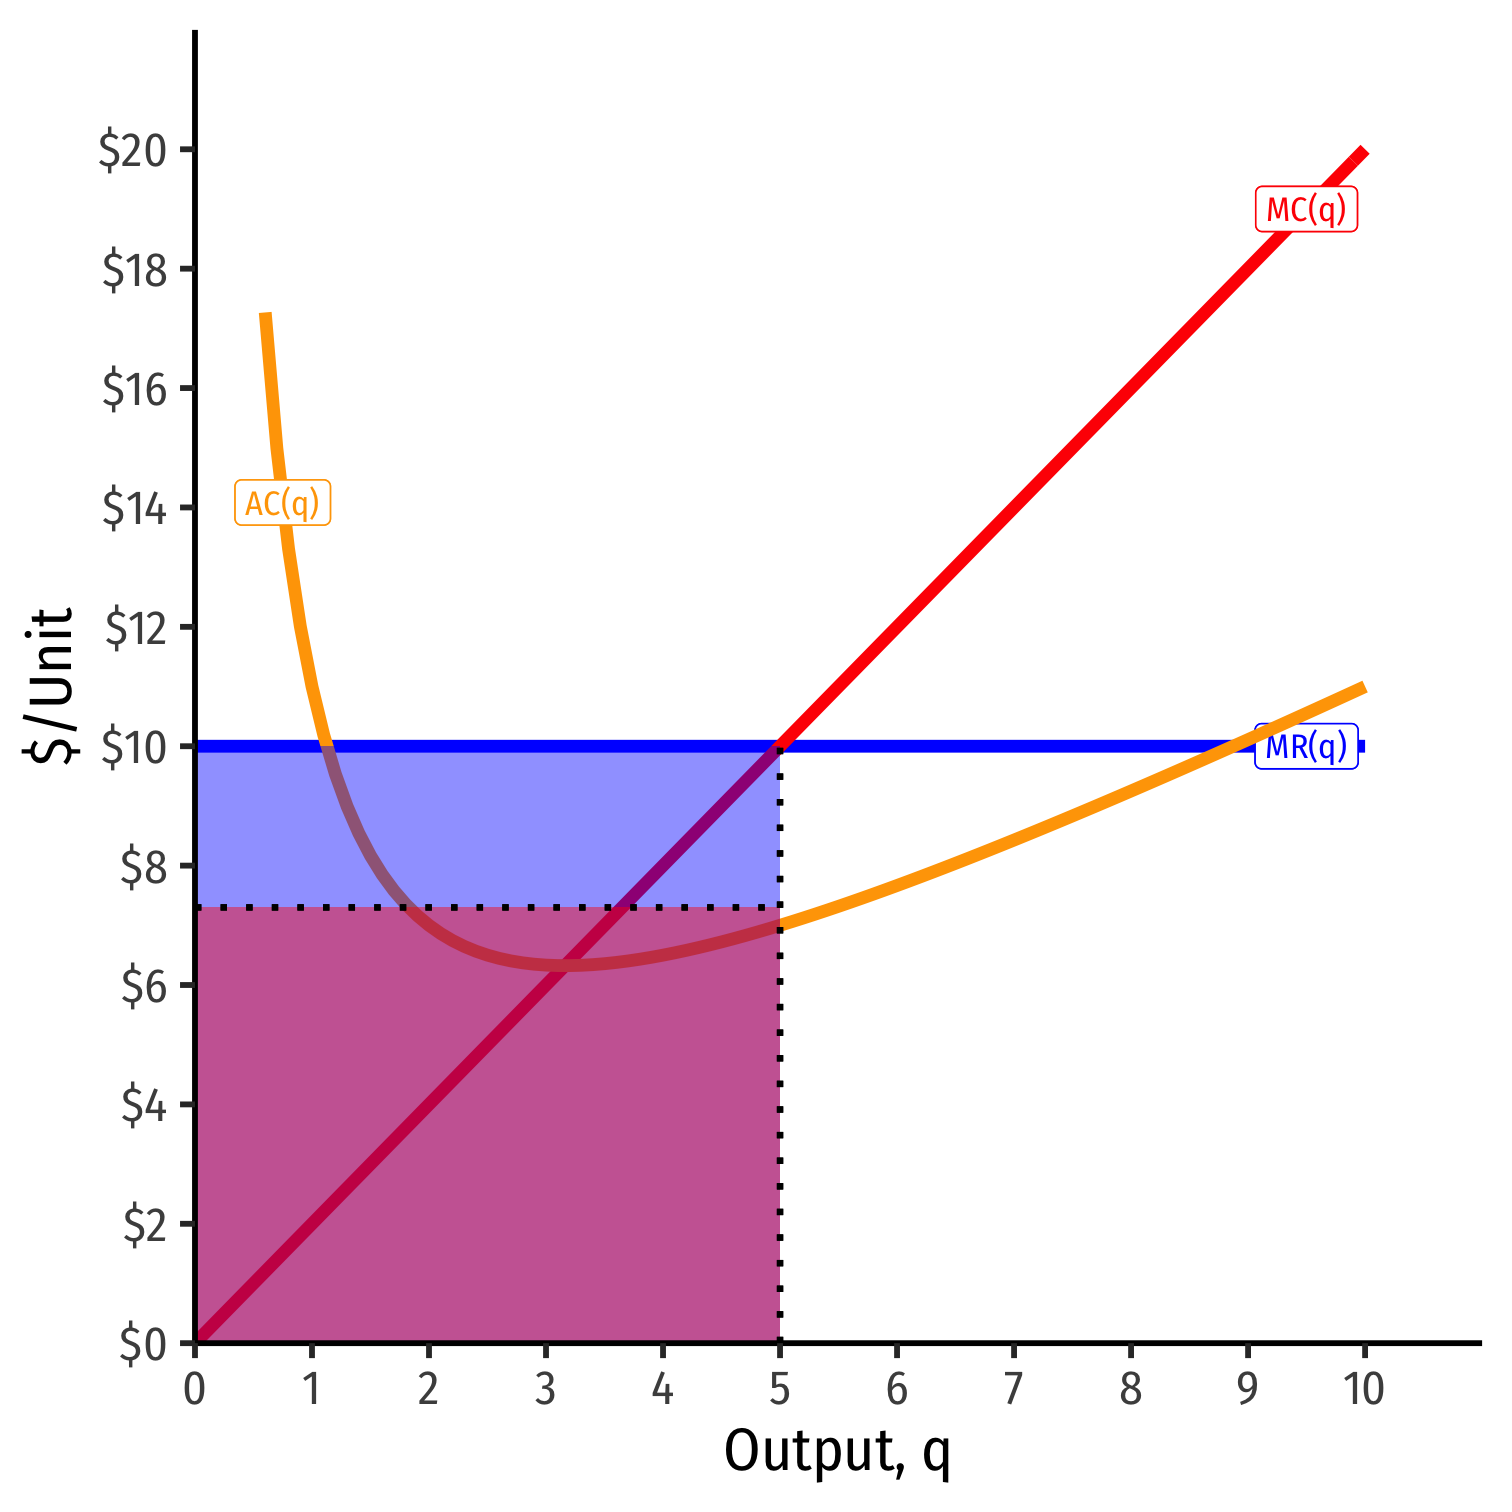
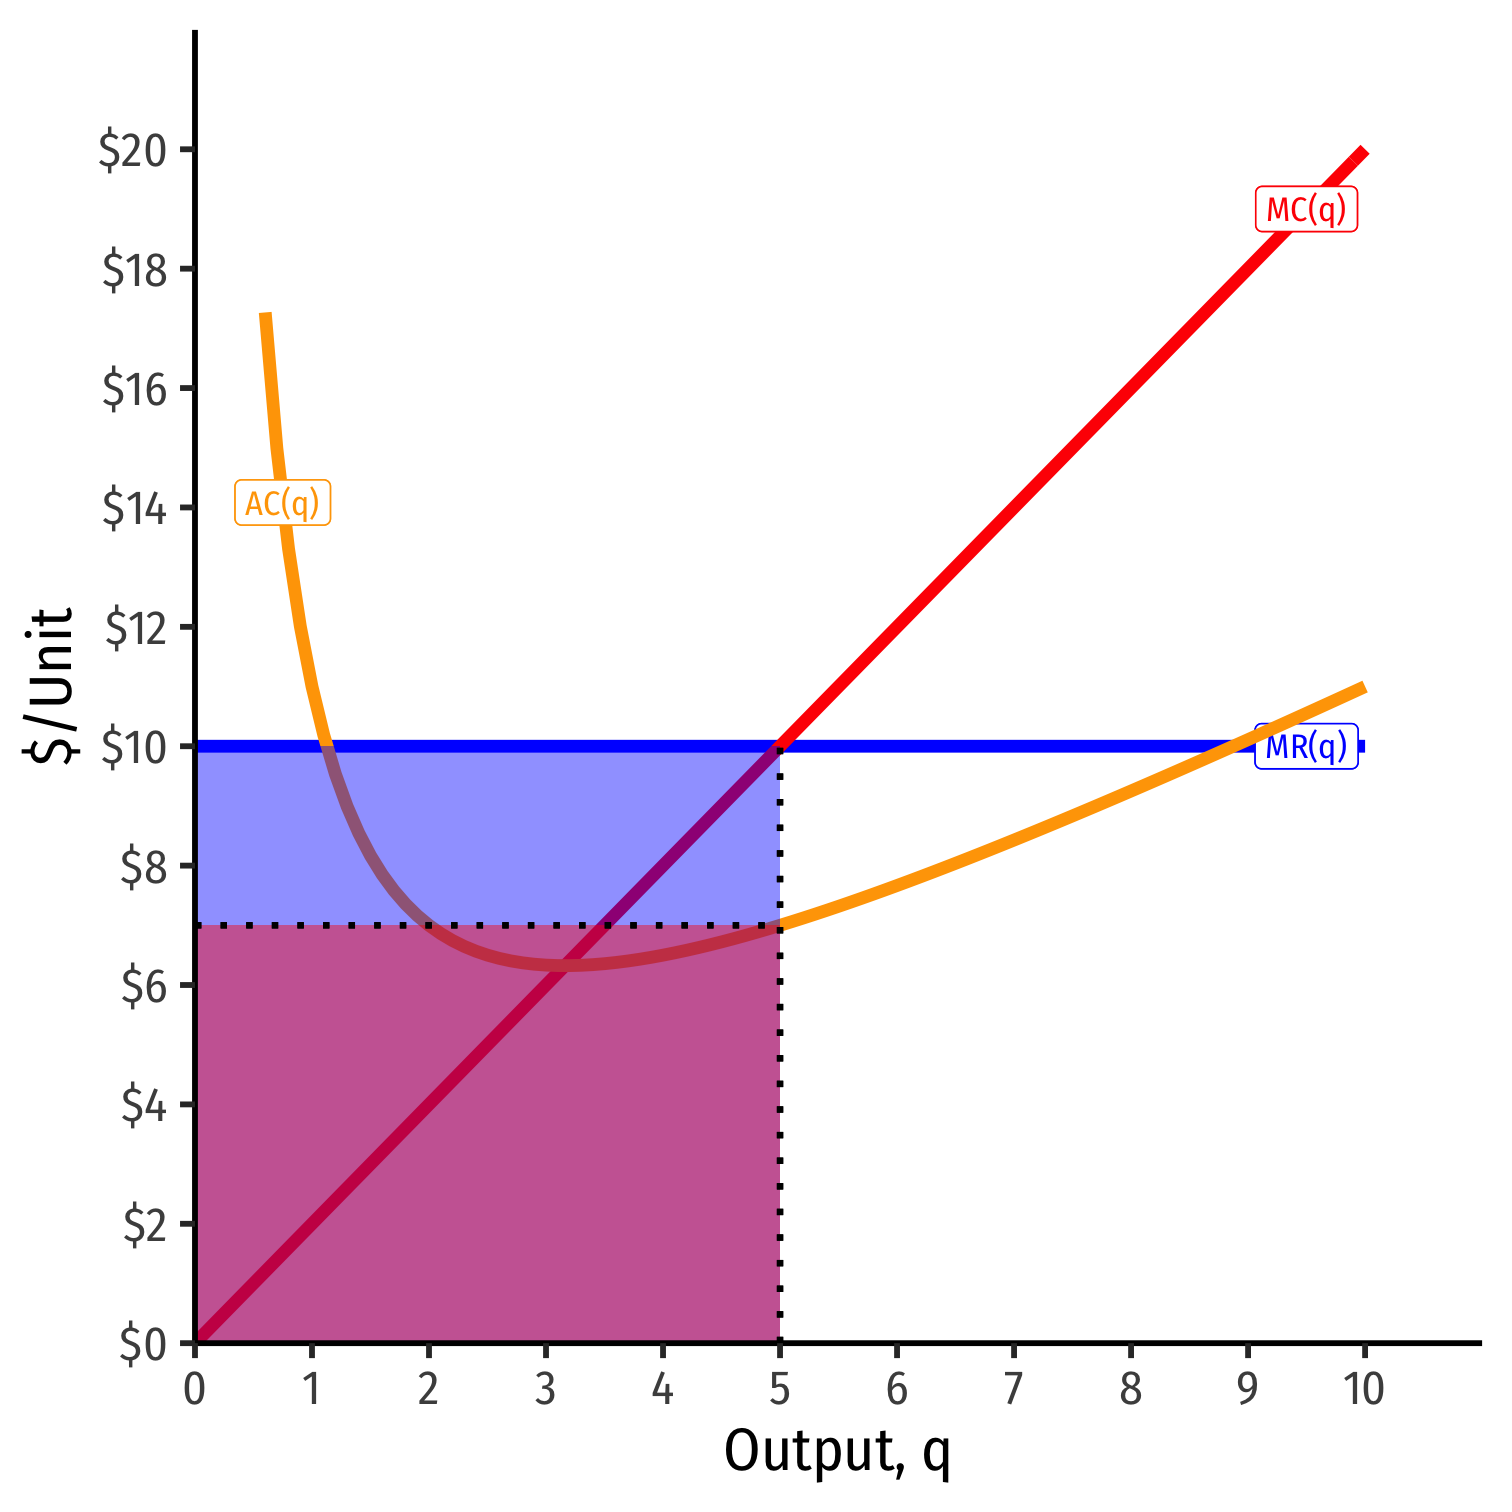
Tweak slides 2.5, make HW 4 visible on schedule

Changed region(s): [[0.1243, 0.5906, 0.5284, 0.6217]]

diff --git a/content/class/1.5-class.html b/content/class/1.5-class.html
@@ -54,7 +54,7 @@ editor_options:
 </span></span> indifference curve for apples <span class="math inline">\((a)\)</span> and bananas <span class="math inline">\((b)\)</span>:
 <span class="math display">\[u(a,b)=ab\]</span></p>
 <div id="htmlwidget-1" style="width:672px;height:528px;" class="plotly html-widget"></div>
-<script type="application/json" data-for="htmlwidget-1">{"x":{"visdat":{"18c36d04bed6":["function () ","plotlyVisDat"]},"cur_data":"18c36d04bed6","attrs":{"18c36d04bed6":{"x":[0,1,2,3,4,5,6,7,8,9,10],"y":[0,1,2,3,4,5,6,7,8,9,10],"z":[[0,0,0,0,0,0,0,0,0,0],[0,1,2,3,4,5,6,7,8,9],[0,2,4,6,8,10,12,14,16,18],[0,3,6,9,12,15,18,21,24,27],[0,4,8,12,16,20,24,28,32,36],[0,5,10,15,20,25,30,35,40,45],[0,6,12,18,24,30,36,42,48,54],[0,7,14,21,28,35,42,49,56,63],[0,8,16,24,32,40,48,56,64,72],[0,9,18,27,36,45,54,63,72,81]],"alpha_stroke":1,"sizes":[10,100],"spans":[1,20],"type":"surface","inherit":true}},"layout":{"margin":{"b":40,"l":60,"t":25,"r":10},"scene":{"xaxis":{"title":"a"},"yaxis":{"title":"b"},"zaxis":{"title":"Utility"}},"hovermode":"closest","showlegend":false,"legend":{"yanchor":"top","y":0.5}},"source":"A","config":{"showSendToCloud":false},"data":[{"colorbar":{"title":"","ticklen":2,"len":0.5,"lenmode":"fraction","y":1,"yanchor":"top"},"colorscale":[["0","rgba(68,1,84,1)"],["0.0416666666666667","rgba(70,19,97,1)"],["0.0833333333333333","rgba(72,32,111,1)"],["0.125","rgba(71,45,122,1)"],["0.166666666666667","rgba(68,58,128,1)"],["0.208333333333333","rgba(64,70,135,1)"],["0.25","rgba(60,82,138,1)"],["0.291666666666667","rgba(56,93,140,1)"],["0.333333333333333","rgba(49,104,142,1)"],["0.375","rgba(46,114,142,1)"],["0.416666666666667","rgba(42,123,142,1)"],["0.458333333333333","rgba(38,133,141,1)"],["0.5","rgba(37,144,140,1)"],["0.541666666666667","rgba(33,154,138,1)"],["0.583333333333333","rgba(39,164,133,1)"],["0.625","rgba(47,174,127,1)"],["0.666666666666667","rgba(53,183,121,1)"],["0.708333333333333","rgba(79,191,110,1)"],["0.75","rgba(98,199,98,1)"],["0.791666666666667","rgba(119,207,85,1)"],["0.833333333333333","rgba(147,214,70,1)"],["0.875","rgba(172,220,52,1)"],["0.916666666666667","rgba(199,225,42,1)"],["0.958333333333333","rgba(226,228,40,1)"],["1","rgba(253,231,37,1)"]],"showscale":true,"x":[0,1,2,3,4,5,6,7,8,9,10],"y":[0,1,2,3,4,5,6,7,8,9,10],"z":[[0,0,0,0,0,0,0,0,0,0],[0,1,2,3,4,5,6,7,8,9],[0,2,4,6,8,10,12,14,16,18],[0,3,6,9,12,15,18,21,24,27],[0,4,8,12,16,20,24,28,32,36],[0,5,10,15,20,25,30,35,40,45],[0,6,12,18,24,30,36,42,48,54],[0,7,14,21,28,35,42,49,56,63],[0,8,16,24,32,40,48,56,64,72],[0,9,18,27,36,45,54,63,72,81]],"type":"surface","frame":null}],"highlight":{"on":"plotly_click","persistent":false,"dynamic":false,"selectize":false,"opacityDim":0.2,"selected":{"opacity":1},"debounce":0},"shinyEvents":["plotly_hover","plotly_click","plotly_selected","plotly_relayout","plotly_brushed","plotly_brushing","plotly_clickannotation","plotly_doubleclick","plotly_deselect","plotly_afterplot"],"base_url":"https://plot.ly"},"evals":[],"jsHooks":[]}</script>
+<script type="application/json" data-for="htmlwidget-1">{"x":{"visdat":{"1d2632592342":["function () ","plotlyVisDat"]},"cur_data":"1d2632592342","attrs":{"1d2632592342":{"x":[0,1,2,3,4,5,6,7,8,9,10],"y":[0,1,2,3,4,5,6,7,8,9,10],"z":[[0,0,0,0,0,0,0,0,0,0],[0,1,2,3,4,5,6,7,8,9],[0,2,4,6,8,10,12,14,16,18],[0,3,6,9,12,15,18,21,24,27],[0,4,8,12,16,20,24,28,32,36],[0,5,10,15,20,25,30,35,40,45],[0,6,12,18,24,30,36,42,48,54],[0,7,14,21,28,35,42,49,56,63],[0,8,16,24,32,40,48,56,64,72],[0,9,18,27,36,45,54,63,72,81]],"alpha_stroke":1,"sizes":[10,100],"spans":[1,20],"type":"surface","inherit":true}},"layout":{"margin":{"b":40,"l":60,"t":25,"r":10},"scene":{"xaxis":{"title":"a"},"yaxis":{"title":"b"},"zaxis":{"title":"Utility"}},"hovermode":"closest","showlegend":false,"legend":{"yanchor":"top","y":0.5}},"source":"A","config":{"showSendToCloud":false},"data":[{"colorbar":{"title":"","ticklen":2,"len":0.5,"lenmode":"fraction","y":1,"yanchor":"top"},"colorscale":[["0","rgba(68,1,84,1)"],["0.0416666666666667","rgba(70,19,97,1)"],["0.0833333333333333","rgba(72,32,111,1)"],["0.125","rgba(71,45,122,1)"],["0.166666666666667","rgba(68,58,128,1)"],["0.208333333333333","rgba(64,70,135,1)"],["0.25","rgba(60,82,138,1)"],["0.291666666666667","rgba(56,93,140,1)"],["0.333333333333333","rgba(49,104,142,1)"],["0.375","rgba(46,114,142,1)"],["0.416666666666667","rgba(42,123,142,1)"],["0.458333333333333","rgba(38,133,141,1)"],["0.5","rgba(37,144,140,1)"],["0.541666666666667","rgba(33,154,138,1)"],["0.583333333333333","rgba(39,164,133,1)"],["0.625","rgba(47,174,127,1)"],["0.666666666666667","rgba(53,183,121,1)"],["0.708333333333333","rgba(79,191,110,1)"],["0.75","rgba(98,199,98,1)"],["0.791666666666667","rgba(119,207,85,1)"],["0.833333333333333","rgba(147,214,70,1)"],["0.875","rgba(172,220,52,1)"],["0.916666666666667","rgba(199,225,42,1)"],["0.958333333333333","rgba(226,228,40,1)"],["1","rgba(253,231,37,1)"]],"showscale":true,"x":[0,1,2,3,4,5,6,7,8,9,10],"y":[0,1,2,3,4,5,6,7,8,9,10],"z":[[0,0,0,0,0,0,0,0,0,0],[0,1,2,3,4,5,6,7,8,9],[0,2,4,6,8,10,12,14,16,18],[0,3,6,9,12,15,18,21,24,27],[0,4,8,12,16,20,24,28,32,36],[0,5,10,15,20,25,30,35,40,45],[0,6,12,18,24,30,36,42,48,54],[0,7,14,21,28,35,42,49,56,63],[0,8,16,24,32,40,48,56,64,72],[0,9,18,27,36,45,54,63,72,81]],"type":"surface","frame":null}],"highlight":{"on":"plotly_click","persistent":false,"dynamic":false,"selectize":false,"opacityDim":0.2,"selected":{"opacity":1},"debounce":0},"shinyEvents":["plotly_hover","plotly_click","plotly_selected","plotly_relayout","plotly_brushed","plotly_brushing","plotly_clickannotation","plotly_doubleclick","plotly_deselect","plotly_afterplot"],"base_url":"https://plot.ly"},"evals":[],"jsHooks":[]}</script>
 <p>Each indifference curve (or contour) is one level of utility (all points on the curve give a specific level of utility). So, set that level of utility equal to some constant, <span class="math inline">\(k\)</span>.</p>
 <p><span class="math display">\[ab=k\]</span></p>
 <p>Then, if we are putting <span class="math inline">\(b\)</span> on the vertical axis, we simply solve this for <span class="math inline">\(b\)</span>:</p>

diff --git a/public/class/1.5-class/index.html b/public/class/1.5-class/index.html
@@ -171,7 +171,7 @@
 </span></span> indifference curve for apples <span class="math inline">\((a)\)</span> and bananas <span class="math inline">\((b)\)</span>:
 <span class="math display">\[u(a,b)=ab\]</span></p>
 <div id="htmlwidget-1" style="width:672px;height:528px;" class="plotly html-widget"></div>
-<script type="application/json" data-for="htmlwidget-1">{"x":{"visdat":{"18c36d04bed6":["function () ","plotlyVisDat"]},"cur_data":"18c36d04bed6","attrs":{"18c36d04bed6":{"x":[0,1,2,3,4,5,6,7,8,9,10],"y":[0,1,2,3,4,5,6,7,8,9,10],"z":[[0,0,0,0,0,0,0,0,0,0],[0,1,2,3,4,5,6,7,8,9],[0,2,4,6,8,10,12,14,16,18],[0,3,6,9,12,15,18,21,24,27],[0,4,8,12,16,20,24,28,32,36],[0,5,10,15,20,25,30,35,40,45],[0,6,12,18,24,30,36,42,48,54],[0,7,14,21,28,35,42,49,56,63],[0,8,16,24,32,40,48,56,64,72],[0,9,18,27,36,45,54,63,72,81]],"alpha_stroke":1,"sizes":[10,100],"spans":[1,20],"type":"surface","inherit":true}},"layout":{"margin":{"b":40,"l":60,"t":25,"r":10},"scene":{"xaxis":{"title":"a"},"yaxis":{"title":"b"},"zaxis":{"title":"Utility"}},"hovermode":"closest","showlegend":false,"legend":{"yanchor":"top","y":0.5}},"source":"A","config":{"showSendToCloud":false},"data":[{"colorbar":{"title":"","ticklen":2,"len":0.5,"lenmode":"fraction","y":1,"yanchor":"top"},"colorscale":[["0","rgba(68,1,84,1)"],["0.0416666666666667","rgba(70,19,97,1)"],["0.0833333333333333","rgba(72,32,111,1)"],["0.125","rgba(71,45,122,1)"],["0.166666666666667","rgba(68,58,128,1)"],["0.208333333333333","rgba(64,70,135,1)"],["0.25","rgba(60,82,138,1)"],["0.291666666666667","rgba(56,93,140,1)"],["0.333333333333333","rgba(49,104,142,1)"],["0.375","rgba(46,114,142,1)"],["0.416666666666667","rgba(42,123,142,1)"],["0.458333333333333","rgba(38,133,141,1)"],["0.5","rgba(37,144,140,1)"],["0.541666666666667","rgba(33,154,138,1)"],["0.583333333333333","rgba(39,164,133,1)"],["0.625","rgba(47,174,127,1)"],["0.666666666666667","rgba(53,183,121,1)"],["0.708333333333333","rgba(79,191,110,1)"],["0.75","rgba(98,199,98,1)"],["0.791666666666667","rgba(119,207,85,1)"],["0.833333333333333","rgba(147,214,70,1)"],["0.875","rgba(172,220,52,1)"],["0.916666666666667","rgba(199,225,42,1)"],["0.958333333333333","rgba(226,228,40,1)"],["1","rgba(253,231,37,1)"]],"showscale":true,"x":[0,1,2,3,4,5,6,7,8,9,10],"y":[0,1,2,3,4,5,6,7,8,9,10],"z":[[0,0,0,0,0,0,0,0,0,0],[0,1,2,3,4,5,6,7,8,9],[0,2,4,6,8,10,12,14,16,18],[0,3,6,9,12,15,18,21,24,27],[0,4,8,12,16,20,24,28,32,36],[0,5,10,15,20,25,30,35,40,45],[0,6,12,18,24,30,36,42,48,54],[0,7,14,21,28,35,42,49,56,63],[0,8,16,24,32,40,48,56,64,72],[0,9,18,27,36,45,54,63,72,81]],"type":"surface","frame":null}],"highlight":{"on":"plotly_click","persistent":false,"dynamic":false,"selectize":false,"opacityDim":0.2,"selected":{"opacity":1},"debounce":0},"shinyEvents":["plotly_hover","plotly_click","plotly_selected","plotly_relayout","plotly_brushed","plotly_brushing","plotly_clickannotation","plotly_doubleclick","plotly_deselect","plotly_afterplot"],"base_url":"https://plot.ly"},"evals":[],"jsHooks":[]}</script>
+<script type="application/json" data-for="htmlwidget-1">{"x":{"visdat":{"1d2632592342":["function () ","plotlyVisDat"]},"cur_data":"1d2632592342","attrs":{"1d2632592342":{"x":[0,1,2,3,4,5,6,7,8,9,10],"y":[0,1,2,3,4,5,6,7,8,9,10],"z":[[0,0,0,0,0,0,0,0,0,0],[0,1,2,3,4,5,6,7,8,9],[0,2,4,6,8,10,12,14,16,18],[0,3,6,9,12,15,18,21,24,27],[0,4,8,12,16,20,24,28,32,36],[0,5,10,15,20,25,30,35,40,45],[0,6,12,18,24,30,36,42,48,54],[0,7,14,21,28,35,42,49,56,63],[0,8,16,24,32,40,48,56,64,72],[0,9,18,27,36,45,54,63,72,81]],"alpha_stroke":1,"sizes":[10,100],"spans":[1,20],"type":"surface","inherit":true}},"layout":{"margin":{"b":40,"l":60,"t":25,"r":10},"scene":{"xaxis":{"title":"a"},"yaxis":{"title":"b"},"zaxis":{"title":"Utility"}},"hovermode":"closest","showlegend":false,"legend":{"yanchor":"top","y":0.5}},"source":"A","config":{"showSendToCloud":false},"data":[{"colorbar":{"title":"","ticklen":2,"len":0.5,"lenmode":"fraction","y":1,"yanchor":"top"},"colorscale":[["0","rgba(68,1,84,1)"],["0.0416666666666667","rgba(70,19,97,1)"],["0.0833333333333333","rgba(72,32,111,1)"],["0.125","rgba(71,45,122,1)"],["0.166666666666667","rgba(68,58,128,1)"],["0.208333333333333","rgba(64,70,135,1)"],["0.25","rgba(60,82,138,1)"],["0.291666666666667","rgba(56,93,140,1)"],["0.333333333333333","rgba(49,104,142,1)"],["0.375","rgba(46,114,142,1)"],["0.416666666666667","rgba(42,123,142,1)"],["0.458333333333333","rgba(38,133,141,1)"],["0.5","rgba(37,144,140,1)"],["0.541666666666667","rgba(33,154,138,1)"],["0.583333333333333","rgba(39,164,133,1)"],["0.625","rgba(47,174,127,1)"],["0.666666666666667","rgba(53,183,121,1)"],["0.708333333333333","rgba(79,191,110,1)"],["0.75","rgba(98,199,98,1)"],["0.791666666666667","rgba(119,207,85,1)"],["0.833333333333333","rgba(147,214,70,1)"],["0.875","rgba(172,220,52,1)"],["0.916666666666667","rgba(199,225,42,1)"],["0.958333333333333","rgba(226,228,40,1)"],["1","rgba(253,231,37,1)"]],"showscale":true,"x":[0,1,2,3,4,5,6,7,8,9,10],"y":[0,1,2,3,4,5,6,7,8,9,10],"z":[[0,0,0,0,0,0,0,0,0,0],[0,1,2,3,4,5,6,7,8,9],[0,2,4,6,8,10,12,14,16,18],[0,3,6,9,12,15,18,21,24,27],[0,4,8,12,16,20,24,28,32,36],[0,5,10,15,20,25,30,35,40,45],[0,6,12,18,24,30,36,42,48,54],[0,7,14,21,28,35,42,49,56,63],[0,8,16,24,32,40,48,56,64,72],[0,9,18,27,36,45,54,63,72,81]],"type":"surface","frame":null}],"highlight":{"on":"plotly_click","persistent":false,"dynamic":false,"selectize":false,"opacityDim":0.2,"selected":{"opacity":1},"debounce":0},"shinyEvents":["plotly_hover","plotly_click","plotly_selected","plotly_relayout","plotly_brushed","plotly_brushing","plotly_clickannotation","plotly_doubleclick","plotly_deselect","plotly_afterplot"],"base_url":"https://plot.ly"},"evals":[],"jsHooks":[]}</script>
 <p>Each indifference curve (or contour) is one level of utility (all points on the curve give a specific level of utility). So, set that level of utility equal to some constant, <span class="math inline">\(k\)</span>.</p>
 <p><span class="math display">\[ab=k\]</span></p>
 <p>Then, if we are putting <span class="math inline">\(b\)</span> on the vertical axis, we simply solve this for <span class="math inline">\(b\)</span>:</p>

diff --git a/public/schedule/index.html b/public/schedule/index.html
@@ -143,7 +143,7 @@
 <li><i class="fas fa-dumbbell"></i> <strong>Practice</strong> problems we work on together in class to prepare for homeworks and exams</li>
 </ul>
 <p>Relevant materials (if applicable, icons will become links) will be posted before class meets.</p>
-<p><strong>Last Update</strong>: <a href="https://github.com/ryansafner/microS20/commits/master">11:08:50 Thu Mar 26 2020</a>.</p>
+<p><strong>Last Update</strong>: <a href="https://github.com/ryansafner/microS20/commits/master">11:21:37 Thu Mar 26 2020</a>.</p>
 <hr />
 <table class="table schedule" style="max-width:100%">
     <tbody>
@@ -472,8 +472,8 @@
                 <i class="fas fa-chalkboard-teacher"></i></font></td>
             <td align="center" style="width:10%;text-align:center"><font color="f1f1f1">
                 <i class="fas fa-dumbbell"></i></font></td>
-            <td align="center" style="width:10%;text-align:center"><font color="f1f1f1">
-                <i class="fas fa-laptop-code"></i></font></td>
+            <td align="center" style="width:10%;text-align:center"><a href="/assignment/04-problem-set/">
+                <i class="fas fa-laptop-code"></i></a></td>
         </tr>
         <tr>
             <td align="right" style="width:20%;text-align:right"></td>

diff --git a/content/_index.html b/content/_index.html
@@ -10,7 +10,7 @@ author: "Ryan Safner"
 </span></span> <span class="newthought">This site contains</span> the syllabus, schedule, and assignments for ECON 306: Microeconomic Analysis, held during Spring 2020 at Hood College.</p>
 <h2 id="transition-to-online"><i class="fas fa-exclamation-circle"></i> <strong>Transition to Online</strong></h2>
 <p><strong>This course is now online for the remainder of the Spring 2020 semester.</strong> <a href="/class/online-transition"><strong>Please read this update</strong></a> <strong>for more information on course changes and accessibility.</strong></p>
-<p><strong>Last Update</strong>: <a href="https://github.com/ryansafner/microS20/commits/master">11:07:13 Thu Mar 26 2020</a></p>
+<p><strong>Last Update</strong>: <a href="https://github.com/ryansafner/microS20/commits/master">11:19:30 Thu Mar 26 2020</a></p>
 <p>By the end of this course, you will:</p>
 <ol style="list-style-type: decimal">
 <li>apply the models of microeconomics (constrained optimization and equilibrium) towards explaining real world behavior of individuals, firms, and governments</li>

diff --git a/public/slides/2.5-slides.html b/public/slides/2.5-slides.html
@@ -529,7 +529,7 @@ class: inverse, center, middle
 
 - At q* = 5 (per unit):
   - .blue[AR(5) = $10/unit]
-  - .red[AC(5) = $7/unit]
+  - .orange[AC(5) = $7/unit]
 
 - At q* = 5 (totals):
   - .blue[R(5) = $50]
@@ -551,7 +551,7 @@ class: inverse, center, middle
 
 - At q* = 5 (per unit):
   - .blue[AR(5) = $10/unit]
-  - .red[AC(5) = $7/unit]
+  - .orange[AC(5) = $7/unit]
   - .green[A`\\(\pi\\)`(5) = $3/unit]
 
 - At q* = 5 (totals):
@@ -614,7 +614,7 @@ class: inverse, center, middle
 
 - At q* = 1 (per unit):
   - .blue[AR(1) = $2/unit]
-  - .red[AC(1) = $10/unit]
+  - .orange[AC(1) = $10/unit]
 
 - At q* = 1 (totals):
   - .blue[R(1) = $2]
@@ -637,7 +637,7 @@ class: inverse, center, middle
 
 - At q* = 1 (per unit):
   - .blue[AR(1) = $2/unit]
-  - .red[AC(1) = $10/unit]
+  - .orange[AC(1) = $10/unit]
   - .green[A`\\(\pi\\)`(1) = -$8/unit]
 
 - At q* = 1 (totals):

diff --git a/static/slides/2.5-slides.html b/static/slides/2.5-slides.html
@@ -529,7 +529,7 @@ class: inverse, center, middle
 
 - At q* = 5 (per unit):
   - .blue[AR(5) = $10/unit]
-  - .red[AC(5) = $7/unit]
+  - .orange[AC(5) = $7/unit]
 
 - At q* = 5 (totals):
   - .blue[R(5) = $50]
@@ -551,7 +551,7 @@ class: inverse, center, middle
 
 - At q* = 5 (per unit):
   - .blue[AR(5) = $10/unit]
-  - .red[AC(5) = $7/unit]
+  - .orange[AC(5) = $7/unit]
   - .green[A`\\(\pi\\)`(5) = $3/unit]
 
 - At q* = 5 (totals):
@@ -614,7 +614,7 @@ class: inverse, center, middle
 
 - At q* = 1 (per unit):
   - .blue[AR(1) = $2/unit]
-  - .red[AC(1) = $10/unit]
+  - .orange[AC(1) = $10/unit]
 
 - At q* = 1 (totals):
   - .blue[R(1) = $2]
@@ -637,7 +637,7 @@ class: inverse, center, middle
 
 - At q* = 1 (per unit):
   - .blue[AR(1) = $2/unit]
-  - .red[AC(1) = $10/unit]
+  - .orange[AC(1) = $10/unit]
   - .green[A`\\(\pi\\)`(1) = -$8/unit]
 
 - At q* = 1 (totals):

diff --git a/content/schedule.html b/content/schedule.html
@@ -18,6 +18,6 @@ slug: schedule
 <li><i class="fas fa-dumbbell"></i> <strong>Practice</strong> problems we work on together in class to prepare for homeworks and exams</li>
 </ul>
 <p>Relevant materials (if applicable, icons will become links) will be posted before class meets.</p>
-<p><strong>Last Update</strong>: <a href="https://github.com/ryansafner/microS20/commits/master">11:08:50 Thu Mar 26 2020</a>.</p>
+<p><strong>Last Update</strong>: <a href="https://github.com/ryansafner/microS20/commits/master">11:21:37 Thu Mar 26 2020</a>.</p>
 <hr />
 {{% schedule %}}
